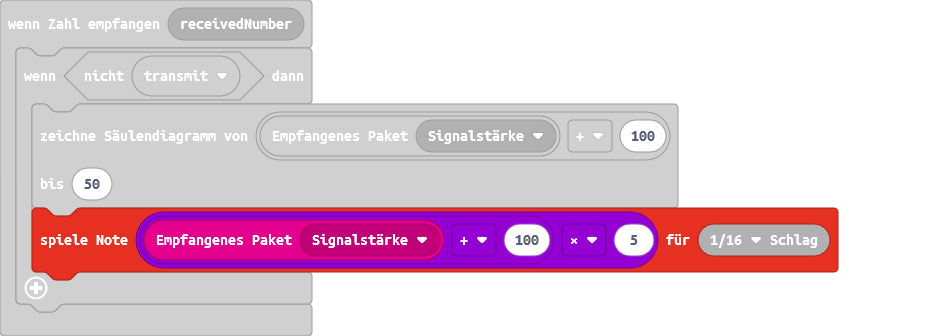
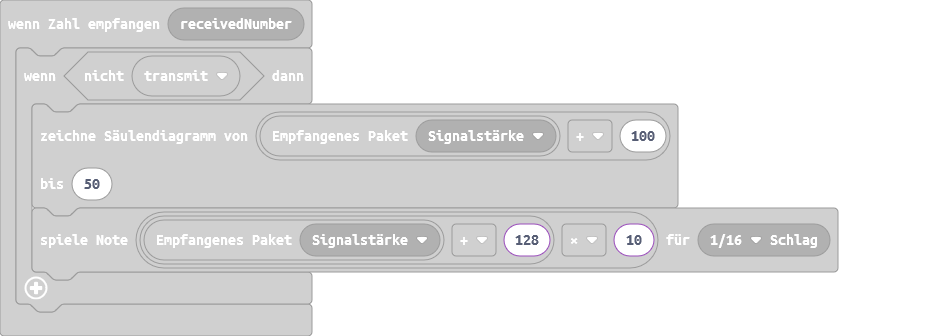
better beep

Changed region(s): [[0.0308, 0.5952, 0.8928, 0.8333]]

diff --git a/main.ts b/main.ts
@@ -4,7 +4,7 @@ radio.onReceivedNumber(function (receivedNumber) {
         radio.receivedPacket(RadioPacketProperty.SignalStrength) + 100,
         50
         )
-        music.playTone((radio.receivedPacket(RadioPacketProperty.SignalStrength) + 100) * 5, music.beat(BeatFraction.Sixteenth))
+        music.playTone((radio.receivedPacket(RadioPacketProperty.SignalStrength) + 128) * 10, music.beat(BeatFraction.Sixteenth))
     }
 })
 input.onButtonPressed(Button.A, function () {
